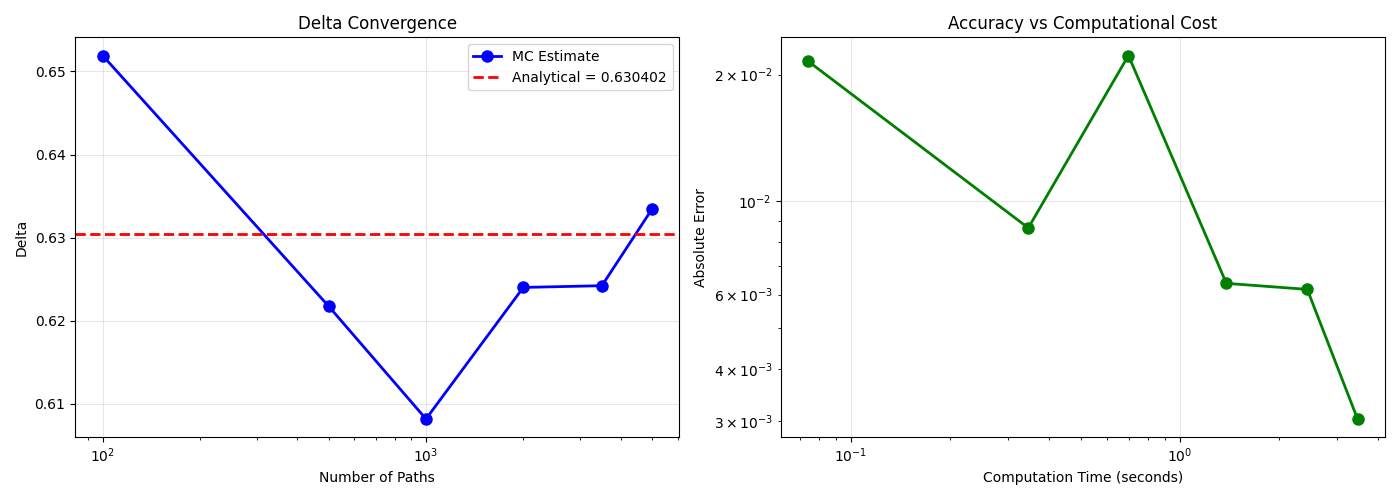
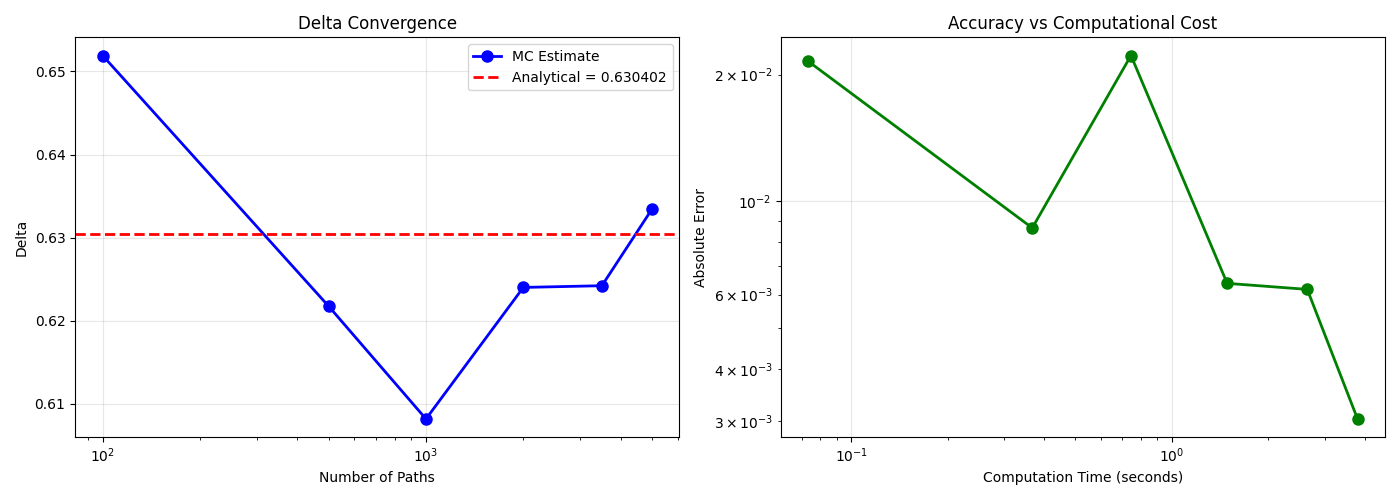
Fixed control_variate function and added new folder for its plots

diff --git a/Heston_plots_class.py b/Heston_plots_class.py
@@ -38,10 +38,11 @@ class HestonPlots:
         ax2.legend()
         plt.tight_layout()
         plt.savefig('./plots/Stock_Var_Plot.png', dpi=150)
+        plt.savefig('./plots_CV/Stock_Var_Plot.png', dpi=150)
         print("Saved trajectory plots of Stock price and volatility as Stock_Var_Plot.png")
 
 
-    def convergence_study(self,simulator, path_counts, analytical_delta, seed):
+    def convergence_study(self,simulator, path_counts, analytical_delta, seed, control_var):
         """
         Study convergence of Monte Carlo delta estimate.
         """
@@ -85,8 +86,12 @@ class HestonPlots:
         ax2.grid(True, alpha=0.3)
         
         plt.tight_layout()
-        plt.savefig('./plots/Delta_Convergence.png')
-        print("Saved convergence of Delta estimates as Delta_Convergence.png")
+        if(control_var):
+            plt.savefig('./plots_CV/Delta_Convergence_CV.png')
+            print("Saved convergence of Delta estimates with control variates as Delta_Convergence_CV.png")
+        else:
+            plt.savefig('./plots/Delta_Convergence.png')
+            print("Saved convergence of Delta estimates as Delta_Convergence.png")
 
     def simulate_delta_hedging(self,simulator, seed, rehedge_steps=1):
         """
@@ -282,8 +287,22 @@ class HestonPlots:
             h = fd_bump * S_i  # absolute bump size scales with S
 
             # --- Finite-difference Heston delta ---
-            # basically has run time error b/c inside loop below we're looping thru N_paths*N_steps number of simulations
-            delta_heston_finite_diff, error = simulator.estimate_delta_finite_diff(N_paths=N_paths, tau_i=tau_i, v_i=v_i, option_type="call",dS=h,seed=seed)
+            # Fixed this b/c originally just called simulator.estimate_delta_fd 
+            # but there was issues with internal params being dynamically modified and not resetted after each call
+            # 1. SAVE the original simulator state
+            orig_tau = simulator.params.tau
+            orig_S0 = simulator.params.S0
+            orig_v0 = simulator.params.v0
+
+            # --- Finite-difference Heston delta ---
+            delta_heston_finite_diff, error = simulator.estimate_delta_finite_diff(
+                N_paths=N_paths, tau_i=tau_i, v_i=v_i, option_type="call", dS=h, seed=seed
+            )
+
+            # 2. RESTORE the simulator state 
+            simulator.params.tau = orig_tau
+            if orig_S0 is not None: simulator.params.S0 = orig_S0
+            if orig_v0 is not None: simulator.params.v0 = orig_v0
 
             # --- Finite-difference BS delta (same bump, same spot) ---
             V_bs_up   = simulator.get_bs_price(S_i + h, tau_i, v_i)
@@ -451,5 +470,9 @@ class HestonPlots:
         ax6.grid(True, alpha=0.3)
 
         plt.tight_layout()
-        plt.savefig('./plots/Portfolio_component.png', dpi=150)
-        print("Saved trajectory plots as Portfolio_component.png")
+        if(control_var): 
+            plt.savefig('./plots_CV/Portfolio_component_CV.png', dpi=150)
+            print("Saved trajectory plots with control variates as Portfolio_component_CV.png")
+        else: 
+            plt.savefig('./plots/Portfolio_component.png', dpi=150)
+            print("Saved trajectory plots as Portfolio_component.png")

diff --git a/main.py b/main.py
@@ -108,7 +108,7 @@ if __name__ == "__main__":
     print("-"*80)
     
     path_counts = [100, 500, 1000, 2000, 3500, 5000]
-    plotter.convergence_study(simulator,path_counts, simulator.params.analytical_delta, seed=42)
+    plotter.convergence_study(simulator,path_counts, simulator.params.analytical_delta, seed=42, control_var=False)
     
-    plotter.plot_hedging_trajectory(simulator,10,seed=123,control_var=False)
+    plotter.plot_hedging_trajectory(simulator,10,seed=123,control_var=True)
 
